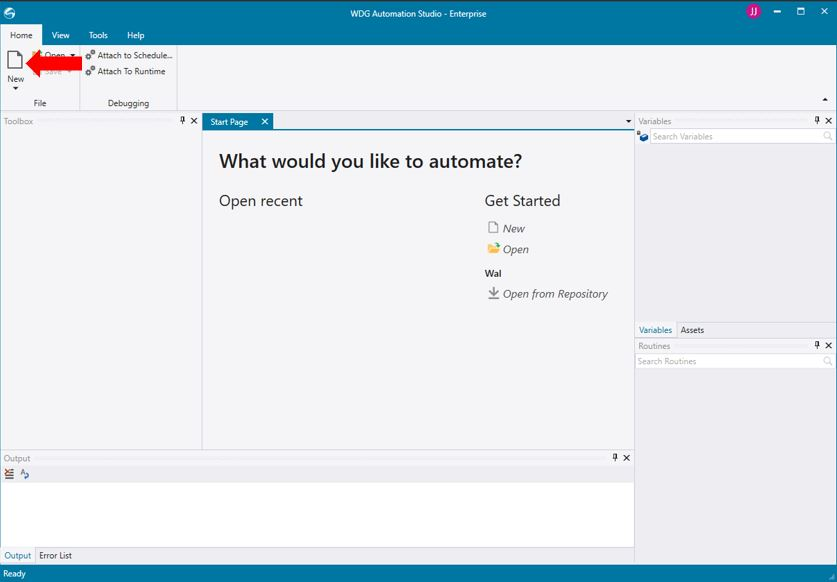
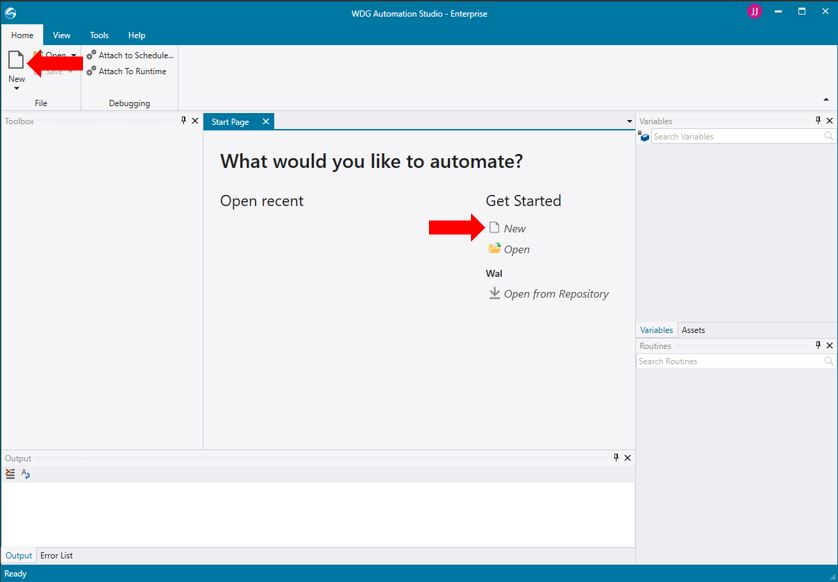
update

diff --git a/README.md b/README.md
@@ -28,9 +28,9 @@ In this exercise you will build a robot to automate processing sales leads that 
 
 ![](./images/login2.JPG)
 
-**(2)** For region keep / select **_London_** and make sure you have the `Lite` plan selected.
+**(2)** Create a new WAL file by clicking the `New` icon from the top toolbar or `New` under "Get Started" section.
 
-![](./images/va_service_create.png)
+![](./images/new.JPG)
 
 **(3)** Scroll down and name the service with a unique name: we'd suggest something like `Watson Assistant-eventname-yourinitials`. Then hit `Create`.
 
